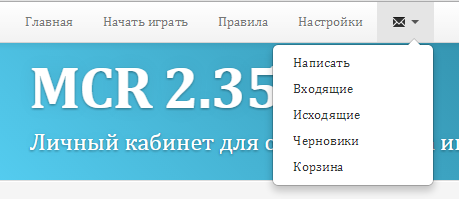
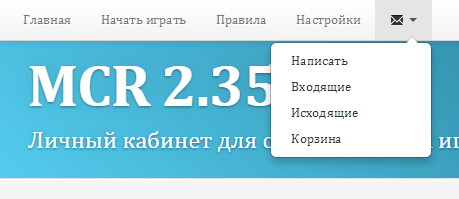
Remove unused functions

diff --git a/style/Default/modules/qexy/mailbox/topics/topic-new.html b/style/Default/modules/qexy/mailbox/topics/topic-new.html
@@ -26,7 +26,6 @@
 		<div class="control-group">
 			<div class="controls">
 				<button type="submit" name="send" value="true" class="btn">Отправить</button>
-				<button type="submit" name="save" value="true" class="btn">Сохранить</button>
 			</div>
 		</div>
 	</form>

diff --git a/install_mailbox/install.class.php b/install_mailbox/install.class.php
@@ -136,17 +136,15 @@ class module{
 			$create6 = $this->db->query("INSERT INTO `qx_mb_folders` (`id`, `uniq`, `title`, `uid`, `icon`, `system`, `data`) VALUES
 (1, 'inbox', 'Входящие', 0, 1, 1, '{\"date_create\":1,\"date_update\":1}'),
 (2, 'outbox', 'Исходящие', 0, 2, 1, '{\"date_create\":1,\"date_update\":1}'),
-(3, 'drafts', 'Черновики', 0, 3, 1, '{\"date_create\":1,\"date_update\":1}'),
-(4, 'trash', 'Корзина', 0, 4, 1, '{\"date_create\":1,\"date_update\":1}');");
+(3, 'trash', 'Корзина', 0, 4, 1, '{\"date_create\":1,\"date_update\":1}');");
 
 			if(!$create6){ $this->api->notify("Ошибка установки #".__LINE__, "&do=install", "Ошибка!", 3); }
 
 			$create7 = $this->db->query("INSERT INTO `qx_mb_icons` (`id`, `img`, `ext`, `system`) VALUES
 (1, 'inbox', '.png', 1),
 (2, 'outbox', '.png', 1),
-(3, 'drafts', '.png', 1),
-(4, 'trash', '.png', 1),
-(5, 'folder', '.png', 1);");
+(3, 'trash', '.png', 1),
+(4, 'folder', '.png', 1);");
 
 			if(!$create7){ $this->api->notify("Ошибка установки #".__LINE__, "&do=install", "Ошибка!", 3); }
 
@@ -218,16 +216,6 @@ class module{
 				$menu_items[0]['qexy_mb_outbox'] = array (
 					'name' => 'Исходящие',
 					'url' => '?mode=mailbox&do=topics&op=folder&fid=outbox',
-					'parent_id' => 'qexy_mb',
-					'lvl' => 1,
-					'permission' => -1,
-					'active' => false,
-					'inner_html' => '',
-				);
-
-				$menu_items[0]['qexy_mb_drafts'] = array (
-					'name' => 'Черновики',
-					'url' => '?mode=mailbox&do=topics&op=folder&fid=drafts',
 					'parent_id' => 'qexy_mb',
 					'lvl' => 1,
 					'permission' => -1,

diff --git a/instruments/modules/qexy/mailbox/topics.class.php b/instruments/modules/qexy/mailbox/topics.class.php
@@ -490,7 +490,7 @@ class module{
 									FROM `qx_mb_topics_links` AS `l`
 									INNER JOIN `qx_mb_topics` AS `t`
 										ON `t`.id=`l`.`tid`
-									WHERE `l`.id IN ($ids) AND `l`.uid='{$this->user->id}' AND `l`.`fid`!='4'");
+									WHERE `l`.id IN ($ids) AND `l`.uid='{$this->user->id}' AND `l`.`fid`!='3'");
 
 		if(!$query || $this->db->num_rows($query)<=0){ $this->api->notify("Доступ запрещен!", "403", 3); }
 
@@ -502,7 +502,7 @@ class module{
 
 		$id_row = implode(', ', $id_row);
 
-		$update = $this->db->query("UPDATE `qx_mb_topics_links` SET `fid`='4' WHERE id IN ($id_row)");
+		$update = $this->db->query("UPDATE `qx_mb_topics_links` SET `fid`='3' WHERE id IN ($id_row)");
 		if(!$update){ $this->api->notify("Произошла ошибка базы данных topics #".__LINE__, "", "Внимание!", 3); }
 		
 		if($this->db->get_affected_rows()<=0){ $this->api->notify("Переписки не были удалены", "", "Внимание!", 4); }

diff --git a/instruments/modules/qexy/mailbox/folders.class.php b/instruments/modules/qexy/mailbox/folders.class.php
@@ -175,7 +175,7 @@ LIMIT $start, $end");
 	private function folder_remove(){ // POST
 
 		$ids = $this->api->filter_array_integer(@$_POST['act']);
-		$check = array_intersect($ids, array(1,2,3,4));
+		$check = array_intersect($ids, array(1,2,3));
 
 		if(!empty($check)){
 			$this->api->notify("Вы не можете удалять системные папки", "&do=folders&op=control", "Ошибка!", 3);
@@ -183,7 +183,7 @@ LIMIT $start, $end");
 
 		$ids = implode(', ', $ids);
 
-		$update = $this->db->query("UPDATE `qx_mb_topics_links` SET fid='4' WHERE id IN ($ids) AND uid='{$this->user->id}'");
+		$update = $this->db->query("UPDATE `qx_mb_topics_links` SET fid='3' WHERE id IN ($ids) AND uid='{$this->user->id}'");
 		
 		if(!$update){ $this->api->notify("Произошла ошибка базы данных folders #".__LINE__, "&do=folders&op=control", "Внимание!", 3); }
 

diff --git a/instruments/modules/qexy/mailbox/admin.class.php b/instruments/modules/qexy/mailbox/admin.class.php
@@ -179,7 +179,7 @@ class module{
 	private function icons_remove(){ // POST
 		$ids = $this->api->filter_array_integer(@$_POST['act']);
 
-		$check = array_intersect($ids, array(1,2,3,4,5));
+		$check = array_intersect($ids, array(1,2,3,4));
 
 		if(!empty($check)){
 			$this->api->notify("Вы не можете удалять системные иконки", "&do=admin&op=icons", "Ошибка!", 3);
@@ -196,7 +196,7 @@ class module{
 			@unlink(MCR_ROOT.'qx_upload/mailbox/'.$ar['img'].'-exist'.$ar['ext']);
 		}
 
-		$update = $this->db->query("UPDATE `qx_mb_folders` SET icon='5' WHERE icon IN ($ids)");
+		$update = $this->db->query("UPDATE `qx_mb_folders` SET icon='4' WHERE icon IN ($ids)");
 		
 		if(!$update){ $this->api->notify("Произошла ошибка базы данных admin #".__LINE__, "&do=admin&op=icons", "Внимание!", 3); }
 

diff --git a/instruments/modules/qexy/mailbox/ajax.class.php b/instruments/modules/qexy/mailbox/ajax.class.php
@@ -48,7 +48,7 @@ class module{
 	}
 
 	private function get_folders(){
-		$query = $this->db->query("SELECT id, title FROM `qx_mb_folders` WHERE `id`!='3' AND (uid='{$this->user->id}' OR `system`='1')");
+		$query = $this->db->query("SELECT id, title FROM `qx_mb_folders` WHERE uid='{$this->user->id}' OR `system`='1'");
 
 		if(!$query || $this->db->num_rows($query)<=0){ $this->reply("Empty", true); }
 

diff --git a/configs/mb.cfg.php b/configs/mb.cfg.php
@@ -3,7 +3,7 @@ $cfg = array (
   'install' => true,
   'title' => 'MailBox',
   'main' => 'folders',
-  'max_folders' => 8,
+  'max_folders' => 9,
   'lvl_access' => 1,
   'lvl_admin' => 15,
   'use_us' => true,
